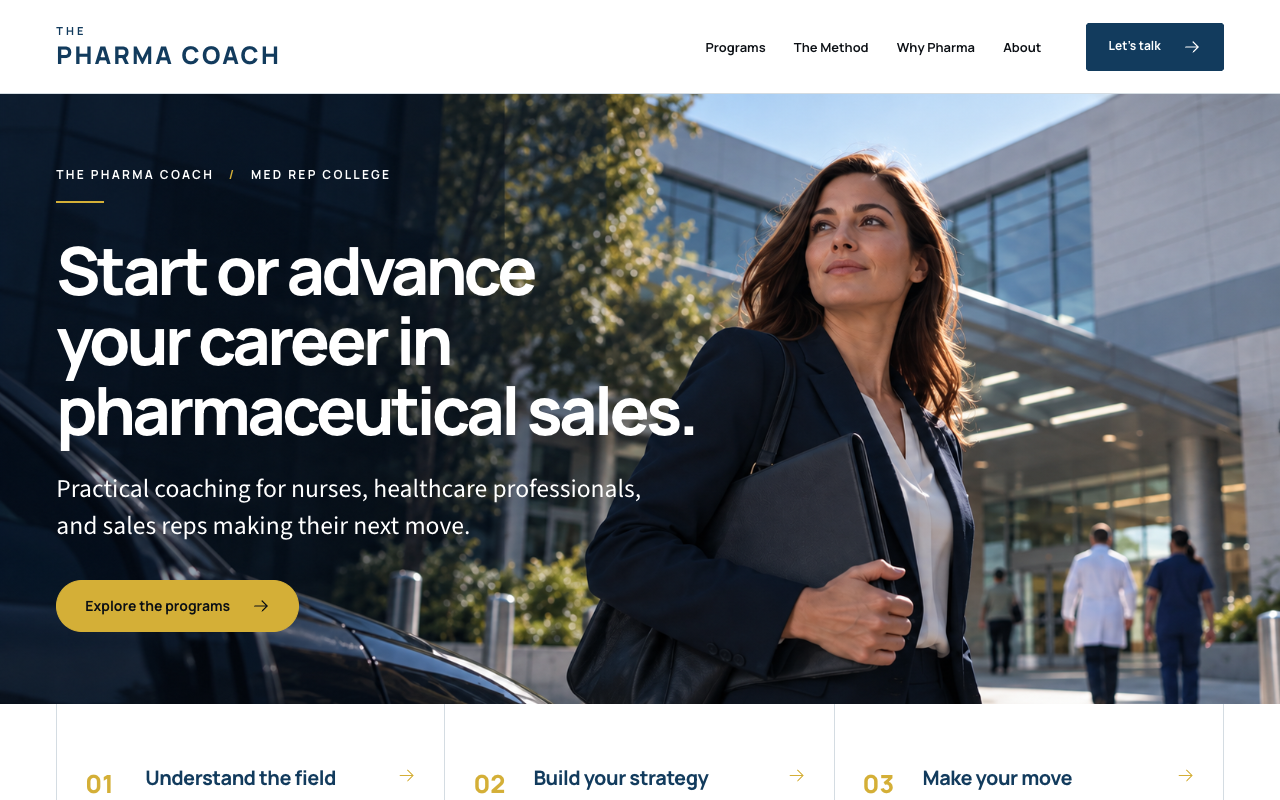
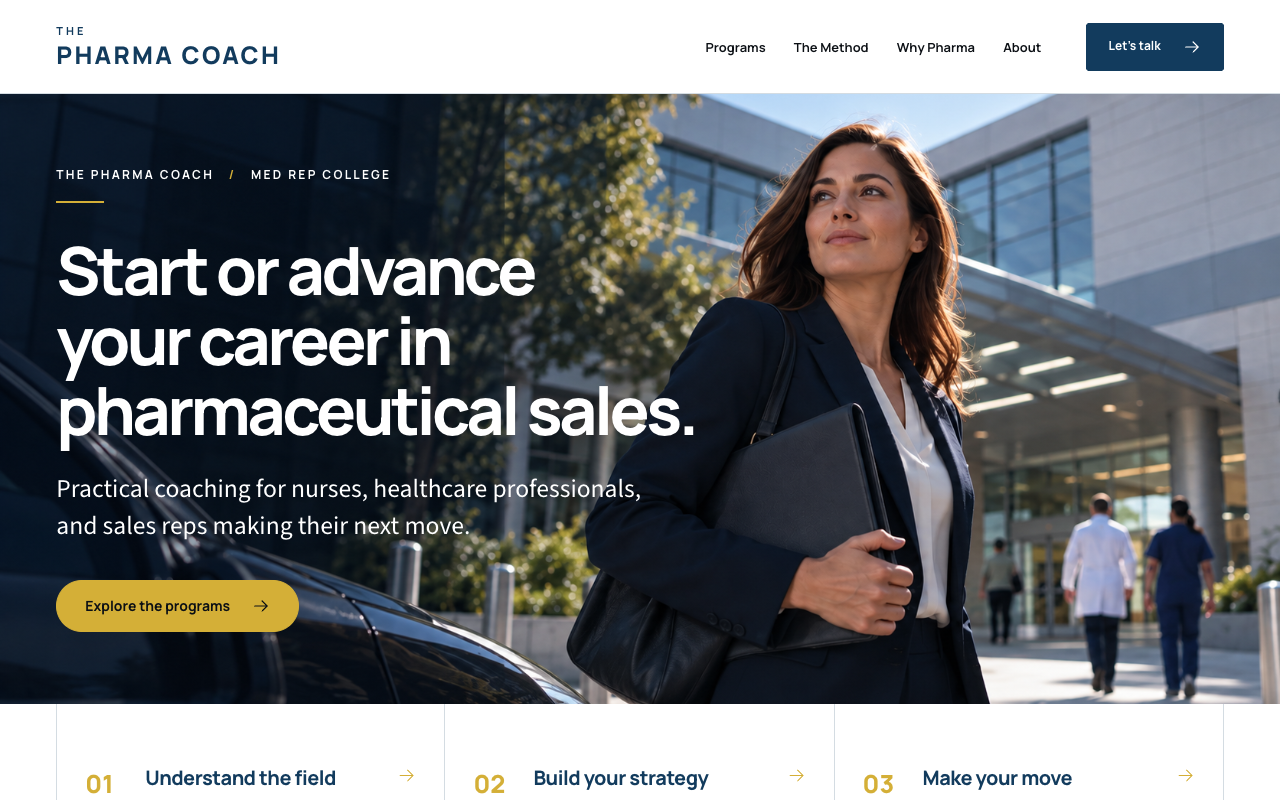
Tighten hero crop and raise CTA on smaller screens

diff --git a/src/styles.css b/src/styles.css
@@ -45,7 +45,7 @@ p { line-height: 1.55; }
 .nav .button { min-height: 44px; margin-left: 16px; font-size: 12px; }
 .menu-button { display: none; width: 44px; height: 44px; align-items: center; justify-content: center; border: 0; background: none; color: var(--navy); }
 .hero { position: relative; display: flex; align-items: center; min-height: 610px; overflow: hidden; background: var(--ink); color: var(--white); }
-.hero__image { position: absolute; inset: 0; width: 100%; height: 100%; object-fit: cover; object-position: center top; }
+.hero__image { position: absolute; top: -30px; left: 0; width: 100%; height: calc(100% + 30px); object-fit: cover; object-position: center top; }
 .hero__copy { position: relative; z-index: 1; width: 100%; max-width: 1600px; margin: auto; padding: 72px max(4.4vw,calc((100vw - var(--max))/2)); }
 .hero .eyebrow { margin-bottom: 32px; color: var(--white); }
 .hero .eyebrow span { color: var(--gold); padding: 0 10px; }
@@ -149,7 +149,7 @@ footer { display: grid; grid-template-columns: 1.4fr .7fr .7fr; gap: 55px; paddi
   .nav > a:not(.button) { font-size: 12px; }
   .nav .button { margin-left: 0; }
   .hero { min-height: 650px; }
-  .hero__copy { padding-inline: 40px; }
+  .hero__copy { padding-inline: 40px; transform: translateY(-70px); }
   .brand-strip { padding-inline: 22px; }
   .brand-strip a { padding: 28px 16px; grid-template-columns: 36px 1fr auto; }
   .brand-strip strong { font-size: 17px; }
@@ -194,7 +194,7 @@ footer { display: grid; grid-template-columns: 1.4fr .7fr .7fr; gap: 55px; paddi
   .wordmark strong { font-size: 17px; }
   .hero { min-height: 690px; }
   .hero__image { object-position: 62% center; filter: brightness(.48); }
-  .hero__copy { padding: 56px 24px 48px; }
+  .hero__copy { padding: 56px 24px 48px; transform: translateY(-80px); }
   .hero .eyebrow { font-size: 10px; letter-spacing: .12em; }
   .hero h1 { font-size: clamp(39px,10.1vw,54px); }
   .hero .lead { font-size: 19px; }

diff --git a/design-qa.md b/design-qa.md
@@ -7,8 +7,8 @@ Final result: passed
 - Source visual truth: `/Users/shanee/.codex/generated_images/01a0ca4c-3874-7e33-bf6b-6e85cbaeeaeb/exec-df940300-767b-4978-81aa-0a6aaae0bc32.png` (the selected "Advance the work" concept), 1586 × 992 pixels.
 - Owner override: Jebb's 2026-09-21 email "colors for websites and emails + fonts" specifies `#0B0F14`, `#FFFFFF`, `#123B5D`, `#D4AF37`, Manrope headings, and Source Sans 3 body. These take precedence over the mockup's copper color and placeholder typography.
 - Browser-rendered implementation: `design-qa-desktop.png`, 1280 × 800 pixels, captured at a 1280 × 800 CSS viewport with Playwright CLI; device scale 1. The in-app Browser was used first, but its resized captures composited duplicate page regions during this copy update, so Playwright supplied the clean QA screenshots.
-- Mobile implementation: `design-qa-mobile.png`, 390 × 844 pixels at a 390 × 844 CSS viewport; device scale 1.
-- Full-view same-input comparison: `design-qa-comparison.png`, source and implementation side-by-side. The 1586 × 992 concept was resized to 1280 × 800 to normalize density and viewport; the resulting comparison is 2560 × 830 with a 30px label strip.
+- Mobile implementation: `design-qa-mobile.png`, 390 × 700 pixels at a short 390 × 700 CSS viewport; device scale 1.
+- Historical comparison: `design-qa-comparison.png` shows the approved concept against the implementation before the later owner-requested headroom and button-position adjustments. Current desktop and mobile renders are in the two standalone screenshots.
 - State: homepage at top, navigation closed. Primary interactions were also tested in the browser.
 
 ## Findings
@@ -31,6 +31,7 @@ Focused review of the hero in the comparison image found the head crop and the b
 2. Fixes: reduced desktop hero to 610px, widened the desktop content frame, moved image crop to top, and closed the mobile menu on navigation.
 3. Post-fix evidence: `design-qa-comparison.png`; mobile screenshot and browser interaction check confirm the menu closes and the `#programs` target appears. FAQ expansion was tested.
 4. Owner copy update: the headline, subhead, and page metadata were changed to address both starting and advancing a pharmaceutical-sales career. Clean 1280 × 800 and 390 × 844 screenshots show no clipping or primary-control obstruction. The only Playwright console error was a pre-existing missing `/favicon.ico` (P3, unrelated to this copy change).
+5. Owner headroom and fold update: the hero photo was raised 30px, roughly halving the space above the subject at the 777px preview width. The complete copy block was then raised 70px on tablet and 80px on narrow mobile. Clean 1280 × 800 and 390 × 700 captures confirm the gold CTA remains visible without scrolling; it ends around y=557 in the short mobile viewport. Navigation, CTA text, and all other above-the-fold copy remain unchanged.
 
 ## Follow-up polish
 
